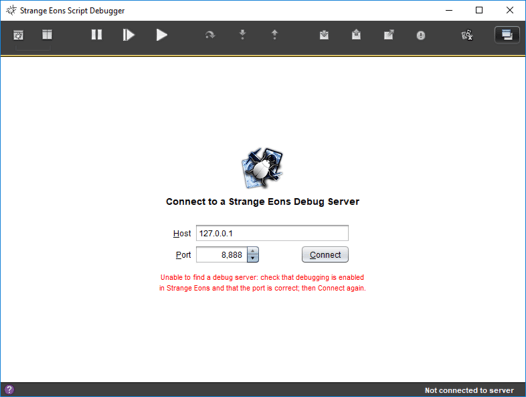
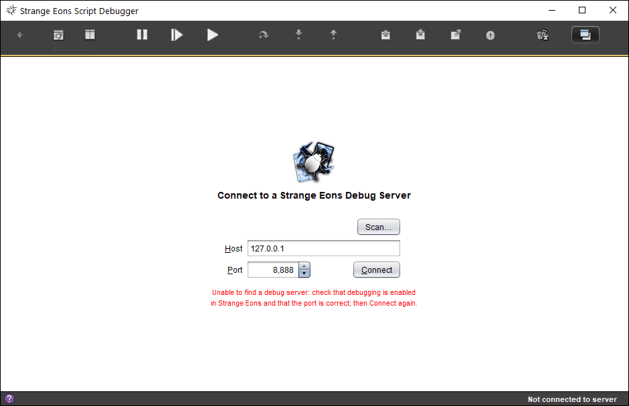
document Scan command for debug servers

diff --git a/docs/dm-debugger.md b/docs/dm-debugger.md
@@ -1,32 +1,30 @@
 # Script debugger
 
-Strange Eons includes a *source-level debugger* to help you find and solve bugs in your script code. It allows you to run scripts line-by-line and watch how the values of script variables change and what values your functions are returning. This lets you verify whether your code is doing what you think it is doing, and if not, why not. This page will show you how to get the debugger running and provide some strategies you can use to fix (and prevent!) bugs.
+Strange Eons includes a *source-level debugger* to help you find and solve bugs in your script code. It allows you to run scripts line-by-line and observe how the values of script variables change, what values your functions are returning, and what decisions are being made at branch points like *if* statements. This lets you verify whether your code is doing what you think it is doing, and if not, why not. This page will show you how to get the debugger running and provide some strategies you can use to fix (and prevent!) bugs.
 
 ## Setting up
 
-The script debugger is a separate app that communicates with Strange Eons while it is running. This communication happens over a network connection. When debugging is enabled in Strange Eons, it will open a local network port. When you start the debugger, it will connect to that port. Then the two apps can "talk" to each other to exchange the information needed for debugging to work.
-
-> Enabling the debugger *does not* expose Strange Eons to the entire Internet. Using the default settings, it will only be visible to apps on the same device. There is, however, a preference option to **Enable remote debugging** that will let you debug Strange Eons using a copy of the debugger running on another computer. This can be convenient (each app gets its own screen), but make sure you have set up a firewall or other appropriate security precautions. This topic is beyond the scope of this introduction.
+The debugging system has two parts: a *client* and a *server*. The server runs inside Strange Eons. The client is a separate app that talks to the the server to get information about the state of the script system and pass on your debugging commands. It takes the information that it gets from the server and presents it to you in a sensible way.
 
 To *enable debugging in Strange Eons*, follow the steps below. You only need to do this once.
 
 1. Open the [Preferences dialog](um-ui-preferences.md) and choose the **Plug-ins** category.
-2. Scroll down to the **Script Debugger** section and ensure the **Enable Debugger** is checked.
+2. Scroll down to the **Script Debugger** section and ensure that **Enable Debugger** is checked.
 3. When the debugger is active, you will see a small bug icon in the upper right corner of the application window. Moving the pointer over the bug icon will display the information needed to connect to the debugger client.
 
 ![debugger preference settings](images/debugger-prefs.png)
 
-Once you change these settings, you can continue using Strange Eons normally. You only need to start the debugger when you actually want to use it.
+Once you change these settings, you can continue using Strange Eons normally. You only need to start the separate debugger app (the *client*) when you actually want to use it.
 
 ## Starting a debugging session
 
-There are a few different ways to start the debugger: from inside Strange Eons, by launching it separately, and manually from the command line.
+Once debugging is enabled as described above, you can launch the client app to start a debugging session. There are a few different ways to start the debugger client: from inside Strange Eons, by launching it separately, and manually from the command line.
 
 #### From the app
 
-To *start the debugger from Strange Eons*, click on the little bug icon that appears when debugging is enabled.
+To *start the debugger from Strange Eons*, click on the little bug icon that appears when debugging is enabled. In the majority of cases, this will "just work."
 
-> If clicking the bug icon works, you generally won't need to start the debugger at all: Strange Eons will start it automatically when needed. If the bug doesn't work, you can fix it by adjusting the **Automatic Launch** command in your preferences.
+> If clicking the bug doesn't work, you can fix how it launches the client by setting the `script-debug-client-launch` key to an appropriate command.
 
 #### From the desktop
 
@@ -34,7 +32,7 @@ To *start the debugger by launching it as a separate app*, just double click its
 
 ![debugger app icon](images/debugger-icon.png)
 
-> Depending on how you installed Strange Eons, you might not have an app icon. If all else fails, you can start the debugger manually from the command line.
+> Depending on how you installed Strange Eons, you might not have an app icon. In this case, start the debugger manually from the command line.
 
 #### From the command line
 
@@ -44,7 +42,11 @@ To *start the debugger manually from the command line*, use a command similar to
 java -Xms64m -cp strange-eons.jar debugger
 ```
 
-When starting from the command line, you can append the options `--host` and/or `--port` to specify the address and port of the debug server you wish to connect to. If you are not sure where the server is located, you can use the `--search` option, which will scan the local host (or the specified `--host`) for debug servers and list any that it finds. For example, if a regular Strange Eons session started a separate [plug-in test session](dm-test-plugin.md), it might produce output like the following:
+> When starting from the command line, you can append the options `--host` and/or `--port` to specify the address and port of the debug server you wish to connect to (as described below). If you are not sure where the server is located, you can use the `--search` option, which will scan the local host (or the specified `--host`) for debug servers and list any that it finds. This is similar to using the **Scan** button described below, except that results are printed to the console.
+
+
+
+---
 
 ```
 Host:         127.0.0.1, port 8888
@@ -65,19 +67,50 @@ This indicates that two debug servers were detected. The **Host** field identifi
 
 ### Connecting to Strange Eons
 
-Once the debugger starts it will begin trying to connect to Strange Eons automatically. If you are running Strange Eons on the same device and you have enabled debugging using the default settings, it will normally connect automatically within a few seconds. 
+A soon as the client starts it will try to connect with the server running in Strange Eons. This happens over a local network connection. If you are running Strange Eons on the same device and you have enabled debugging using the default settings, it will normally connect automatically within a few seconds.
+
+(If the client connected automatically for you, you can [skip the rest of this section](#the-debugger).)
+
+> Enabling the debugger *does not* expose Strange Eons to the entire Internet. In fact, you don't even need to be able to connect to the Internet for debugging to work. Using the default settings, it will only be visible to apps on the same device. There is, however, a preference option to **Enable remote debugging** that will let you debug Strange Eons using a copy of the debugger running on another computer. This can be convenient (for example, each app can have its own screen), but if you use this option you should also set up an appropriate firewall.
 
 #### Manual connections
 
-Rarely, you will need to connect to Strange Eons manually. For example, if you are already running an app that is using the port that the debugger expects to connect to Strange Eons with. In these cases you will need to help the debugger find Strange Eons. It's easy.
+Rarely, you will need to connect to Strange Eons manually. For example, if a different app is already using the *port* that Strange Eons uses by default, then the debugger won't be able to find Strange Eons where it expects to. In that case you will see a screen like the one below. You will have to give the debugger a hand, but don't panic! It's easy:
 
 ![debugger connection settings](images/debugger-connect.png)
 
-To *connect to Strange Eons from the debugger manually*, switch to Strange Eons and look for the bug icon near the upper right corner. Hover over the icon and observe the note that pops up. It will say something like "Listening at 127.0.0.1:8888". The part after the colon is the port number. The part before the colon (and after *Listening at*) is the host name. Enter this information in the connection screen in the debugger app, and it should connect momentarily.
+To connect you just need to know the *host* and *port* to connect to. Fill these in, choose **Connect**, and the client will complete the connection.
+
+The host is the device where the server is running. If you are using the default settings, this is just `localhost`. If you are allowing connections from other devices, then this is your device's IP address. The port is a specific address on your device where the debug server is listening for connections from a client. You can think of the host as being like the telephone number for a business, and the port being the particular extension where Strange Eons will pick up the phone. You can't easily guess the port number, but you can find it:
+
+##### Getting the host and port from Strange Eons
+
+Switch to Strange Eons and look for the bug icon ![](images/debugger/bug-icon.png) near the upper right corner. Hover over the icon and observe the note that pops up. It will say something like "Listening at localhost:8888". The part after the last colon is the port number (8888 in this case). The part before that colon (and after *Listening at*) is the host name. It could be a name or a string of numbers. In either case, enter this information in the appropriate fields on the connection screen in the debugger app, then choose **Connect**.
+
+![finding host details in Strange Eons](images/debugger-host-info.png)
+
+##### Scanning for servers
+
+Sometimes you can't use the bug icon. For example, the Strange Eons user interface may be frozen if a running script has already been interrupted. Or, the main window might not be available yet if a plug-in script has been interrupted during startup. And sometimes you may have multiple copies of Strange Eons open, each with its own debug server running (for example, when testing a plug-in). You can search your device for debug servers from the connection screen by choosing **Scan**. A small dialog box will open and the client will start scanning. The scan consists of checking the ports on your device for a debug server, which can take *several minutes* to complete.  However, you do not usually have to wait for the entire scan. As each debug server is discovered, it is added to the list. You can connect to a listed server at any time by choosing its **Connect** button.
+
+![the scan dialog](images/debugger-scan.png)
+
+Each discovered server will be listed with:
+
+1. A unique ID string. The string for a given instance of Strange Eons never changes. You can use this to differentiate servers if needed.
+2. The host and port number that will connect to that server.
+3. The build number and version number.
+4. If the server was started in plug-in test mode, the file names of the plug-in bundles it is testing.
+
+> **Important:** During scanning, the progress bar may appear to stall for long periods of time. This is normal. It usually indicates that the scanner has found a port that is connected to some *other* kind of server. The client is asking it if it is a debug server, but it is not saying anything back so the client waits a while for an answer before moving on.
+
+#### Switching between multiple servers
+
+If you have multiple instances of Strange Eons running, each will have its own debug server. To switch between multiple servers, choose the back arrow from  the debugging screen. This will take you back to the connection screen. From here, enter the host and port for the target instance and press **Connect** to switch servers.
 
 ## The debugger
 
-Once the debugger has connected to Strange Eons, you can use it to inspect and walk through scripts. To do that, the script must first be *interrupted*. There are several ways to do this, depending on where you are when you start out. Here are some:
+Once the debugger has connected to Strange Eons, you can use it to inspect and step through scripts. To step through a script, the script must first be *interrupted*. There are several ways to do this, depending on where you are when you start out. Here are some:
 
 > When a script is *interrupted*, in most cases Strange Eons will appear be frozen. It isn't really, it is just waiting for the script, and since the script is paused Strange Eons is effectively paused, too. As soon as you let the script finish from the debugger, Strange Eons will "thaw" again and run normally.
 
@@ -131,7 +164,7 @@ Interrupts a script whenever any function is called.
 Interrupts a script whenever any function returns.
 
 ![break on throw icon](images/debugger/break-on-throw.png) **Break on Throw**  
-Interrupts a script whenever an **Error** is thrown using the `throw` keyword..
+Interrupts a script whenever an **Error** is thrown using the `throw` keyword.
 
 ![break on debugger icon](images/debugger/break-on-debugger.png) **Break on Debugger**  
 Interrupts a script whenever a `debugger;` statement is reached. This is the only break type that is turned on by default.
@@ -254,6 +287,10 @@ Let's try putting this together with some practice:
 
 Let's say you have a plug-in that isn't behaving as you expect. How do can you fix it? To answer that, let's first describe the situation more clearly. When you have a bug in your script, you don't know right away what the cause of the bug is. Instead, you have signs or symptoms that the script is not behaving as intended. You have to work backwards from the symptoms to the cause. This may not be easy: there might be more than one possible cause that for the symptoms you are observe, and the symptoms may be far removed from the root cause. Here are some basic strategies that can help you find that root cause:
 
+### Keep it together
+
+To fix a bug you will need to engage the logical and creative parts of your mind. Both of these get "deactivated" when you are upset, which makes debugging that much harder. Take a deep breath. Try to approach the process like you are solving a puzzle: solving problems is an inseparable part of the programming process. When you find that you are upset, research shows that naming what you are feeling can help re-engage the rational part of your mind: "I'm frustrated because I keep stepping through this and I can't find where the problem is."
+
 ### Learn to reproduce the bug reliably
 
 Sometimes a bug manifests intermittently. In such cases, a good strategy is to experiment with the program to look for cases where the symptoms do and do not appear, until you know the exact combination of conditions are necessary to reproduce the bug. This will not only help you to form hypotheses about the underlying cause, but it also gives you a reliable way to test whether the problem still occurs after you think you have fixed it.
@@ -292,17 +329,25 @@ function setId(id) {
 
 When an error (or other exception) is thrown but not caught by your script, a *script trace* will appear in the script output window. This will show the chain of function calls that led to the error being thrown, along with source file names and line numbers of those calls. You can click on these lines in the source output window to open the source file at the indicated line. (Depending on where the source file is located, it may be opened read-only so that you cannot edit it.) If you use the technique above to throw your own errors, the second element in the script trace will be the function that passed you the the invalid argument, so you can start your investigation there.
 
+## Tips
+
+### A script is "stuck"
+
+A rogue script can cause Strange Eons to stop responding. For example, it is easy to accidentally create an infinite loop that will run forever. However, things might not *actually* be stuck. It may be that your script reached a breakpoint or a `debugger;` statement and it is waiting for you to resume the script from the client app. Try connecting the client first to check the situation out (use **Scan** if needed). Choose the **Pause** button and wait to see if a script gets interrupted. You may be able to simply continue the script or modify the state of some variables to work around the cause of the issue. Failing that, you can force the connected Strange Eons instance to close.
+
+If the debugger is not running, you can forcibly quit Strange Eons.  Use <kbd>Ctrl</kbd>+<kbd>Alt</kbd>+<kbd>Delete</kbd> on Windows, <kbd>Command</kbd>+<kbd>Option</kbd>+<kbd>Escape</kbd> on macOS, or the **System Monitor** on Linux.
+
+If the issue was caused by a plug-in, you can prevent Strange Eons from trying to start it by opening the [user folder](um-install-user-folder.md), and either deleting or temporarily renaming the problem plug-in (for example, add a `.x` extension).
+
 ### Debugging an extension
 
 To debug an extension script that fails while the app is starting, you can follow these steps:
 
 1. Add the line `debugger;` at the top of the extension plug-in script.
-2. [Build the plug-in bundle](dm-first-plugin.md#building-the-plug-in-bundle), then double click to install it.
-3. After installing the bundle, you will be prompted to relaunch the app. **Before you do, make sure the [debugger is running](#starting-a-debugging-session).**
-4. Restart the app. When it loads the extension plug-in script and reaches the `debugger;` line, the script will be interrupted as if by a breakpoint. You can now proceed as described below.
-
-#### Stuck at the splash screen
-
-After adding `debugger` as outlined above, if you start Strange Eons without starting the debugger, it will "get stuck" on the splash screen when it hits the breakpoint you added with the `debugger` statement. The app is waiting for you to connect with the debugger and tell it how to proceed, and it will happily wait forever. You'll need to start and connect the debugger client independently ([as a separate app](#starting-a-debugging-session)) to continue. If you are not sure which host and port to connect to, you can start the client with the `--search` argument.
-
-> Failing that, you'll have to forcibly end Strange Eons (using, e.g.,  <kbd>Ctrl</kbd>+<kbd>Alt</kbd>+<kbd>Delete</kbd> on Windows or <kbd>Command</kbd>+<kbd>Option</kbd>+<kbd>Escape</kbd> on macOS, or using **System Monitor** on Linux). You can then manually uninstall the plug-in (in the [user folder](um-install-user-folder.md), temporarily rename the file to add the extension `.x`). Then restart Strange Eons, use it to start the debugger, quit Strange Eons but keep the debugger running, restore the plug-in (by removing the `.x`), and, finally, start Strange Eons again. This time, it will still "get stuck", but the debugger will connect and then you can use it to continue loading.
+2. [Build the plug-in bundle](dm-first-plugin.md#building-the-plug-in-bundle), then right click on it and choose **Test Plug-in**.
+4. Restart the app. When it loads the extension plug-in script and reaches the `debugger;` line, the script will be interrupted. Progress on starting the app will stop the script completes.
+4. Start the debugger client, if it is not already running.
+5. The client will likely connect to the main Strange Eons debug server, not the plug-in test instance. You will need to find and enter the correct host and port to connect. There are a few ways to do this:
+   1. Look at the script output window in the main Strange Eons app. Amongst the logging information will be a message like the following: `WARNING: default debug server port in use; switched to port 50,429`. Enter the port number on the connection screen and **Connect**.
+   2. From the **Connect** screen, press **Scan** and wait. Multiple servers will be detected, one at a time, one for each running instance of Strange Eons. You can identify the test instance because it will list the test plug-in bundle name (it will be using a temporary file name generated by the test command).
+6. Once connected, you can step through the extension script as you would with any other debugging. Once the script completes, the test instance will be complete its startup process.
